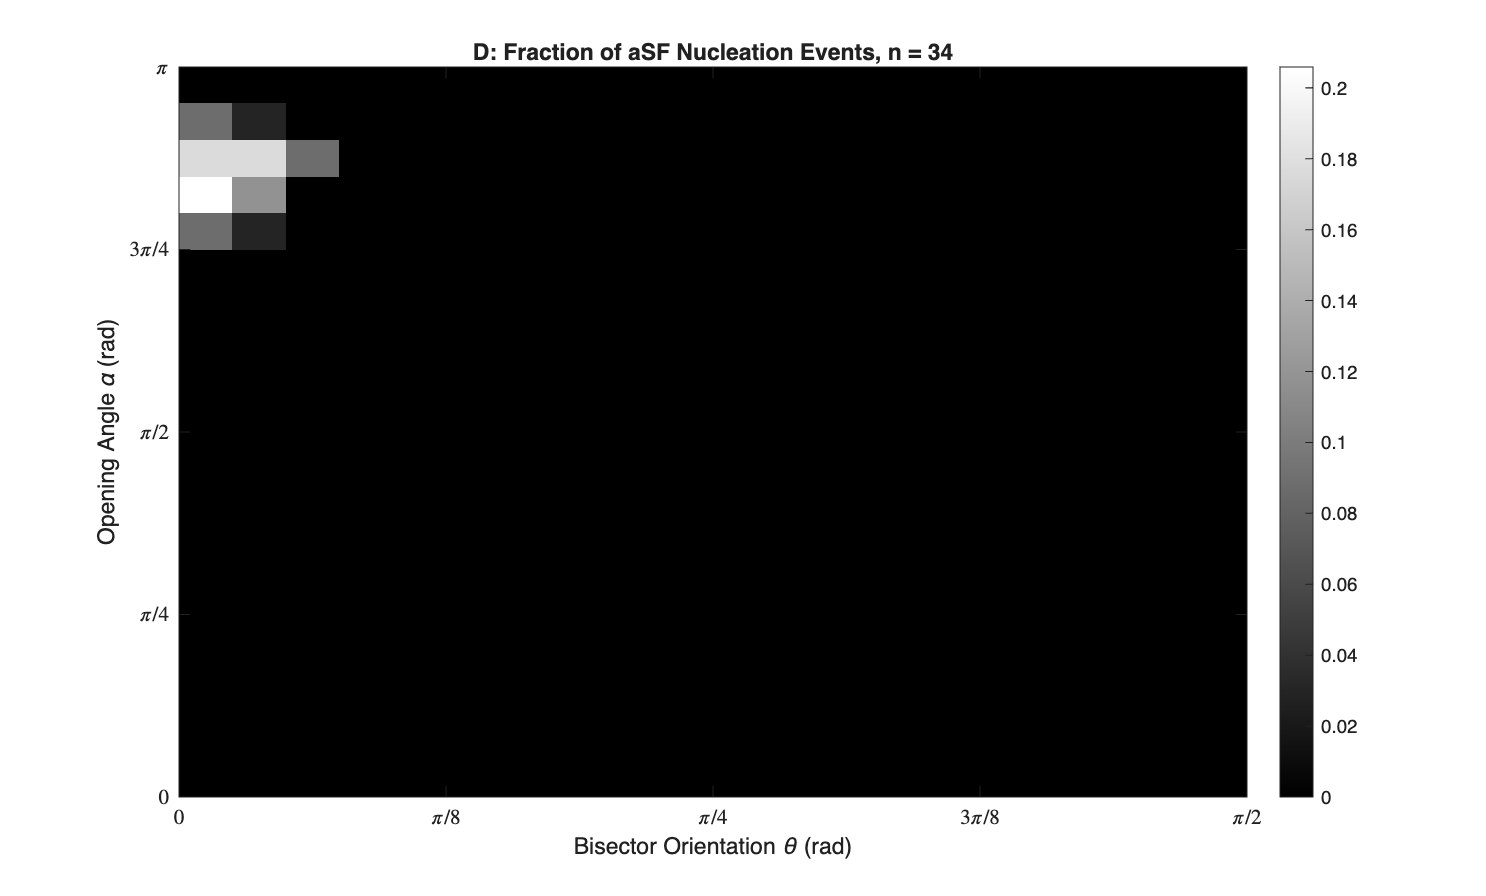
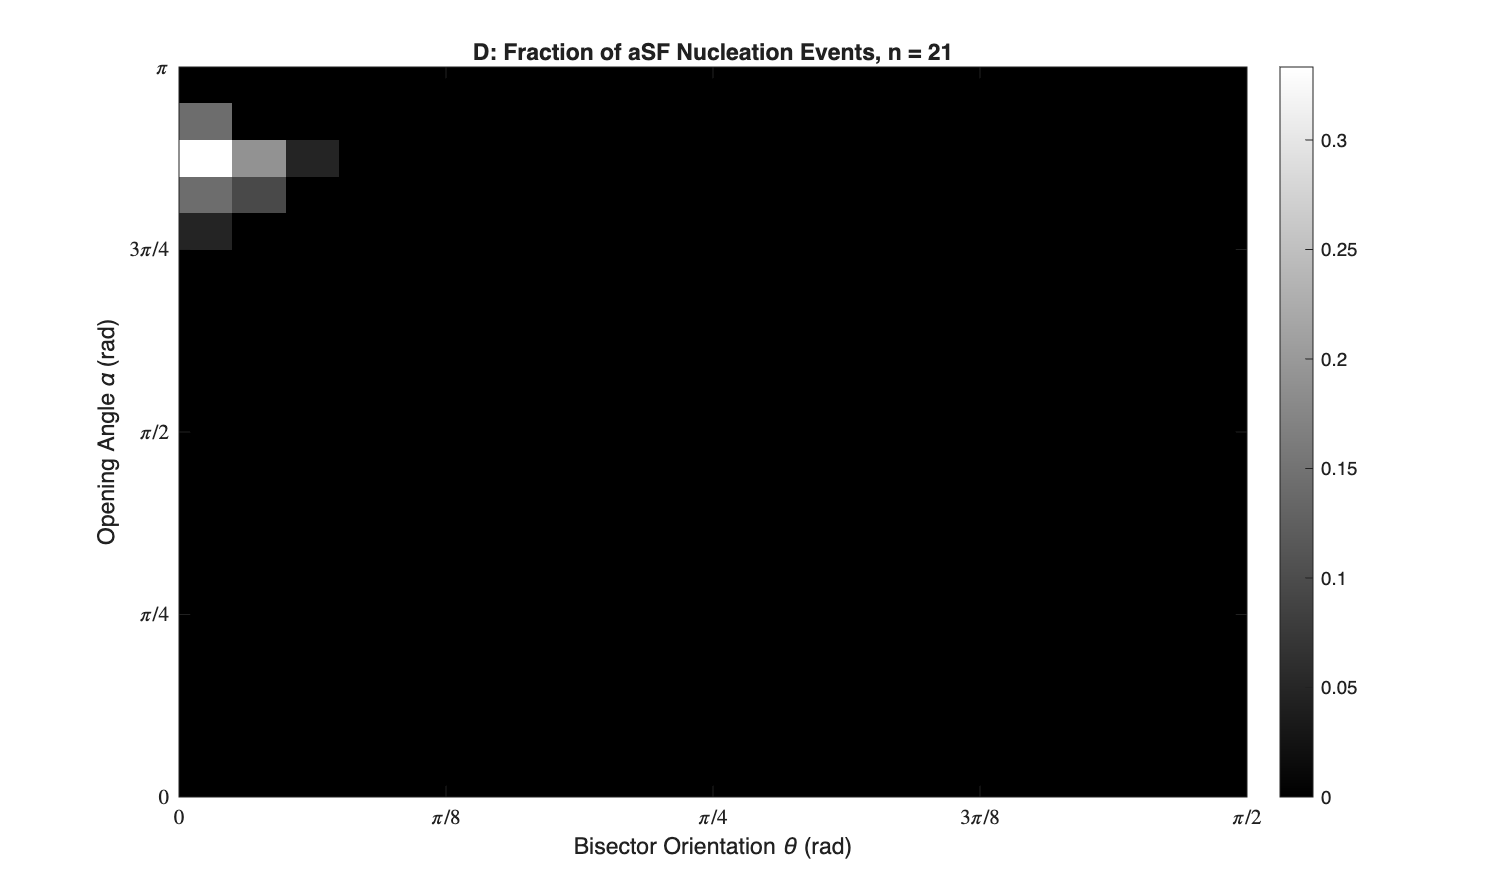
script updated

diff --git a/Matlab_functions_input_file/tensionAnglePlots.m b/Matlab_functions_input_file/tensionAnglePlots.m
@@ -1,13 +1,31 @@
-% clear
+function tensionAnglePlots(inputFileName)
+
+clc; close all;
+
+%% =========================
+% USER INPUT
+%% =========================   % <-- your snapshot file
+
 % 
+
+underScoreIndexing = strfind(inputFileName,'_');
+relevantFilePortion = inputFileName(1:underScoreIndexing(9)); 
+folderOutputName = relevantFilePortion + "visualization";
+
+
+scriptDir = fileparts(mfilename('fullpath'));
+projectRoot = fileparts(scriptDir);
+
+inputDir = fullfile(projectRoot,'input_files',inputFileName);
+
 % filenamme = 'RFB_NbPts_1000_rng_2000_pot_ani_lim_320_relaxed_out.txt';
-% [edgeArray,Y,NUCLEATIONTHRESHOLD, EpsilonMax] = readEdgeData(filenamme);
-% 
-% time = edgeArray(:, 1);
-% tension = edgeArray(:, 5);
-% restlength = edgeArray(:, 7);
-% length = edgeArray(:, 6);
-% angle = edgeArray(:, 9);
+[edgeArray,Y,NUCLEATIONTHRESHOLD, EpsilonMax] = readEdgeData(inputDir);
+
+time = edgeArray(:, 1);
+tension = edgeArray(:, 5);
+restlength = edgeArray(:, 7);
+length = edgeArray(:, 6);
+angle = edgeArray(:, 9);
 
 %Number of edges above threshold and over max tension
 uniqueTimes = unique(time, 'stable');
@@ -41,7 +59,8 @@ yedges2 = linspace(EpsilonMax * Y, 1.5 * EpsilonMax * Y, 11);
 yedges = [yedges1, yedges2(2:end)];
 
 videoName = 'tension_angle_evolution.mp4';
-v = VideoWriter(videoName, 'MPEG-4');
+outputDir = fullfile(projectRoot,"visualization_files",folderOutputName,videoName);
+v = VideoWriter(outputDir, 'MPEG-4');
 v.FrameRate = 12;
 open(v);
 

diff --git a/DynamicTissue.cpp b/DynamicTissue.cpp
@@ -487,6 +487,7 @@ void Tissue_Dynamic::HelperWriteOutputData_Write2File(ofstream* datafile, bool i
 	*datafile << "GAMMA0\t" << GAMMA0 << endl;
 	*datafile << "Y\t" << Y << endl;
 	*datafile << "ExternalStressRatio\t" << ExternalStressRatio << endl;
+	*datafile << "TOTALT1\t" << TOTALT1 << endl; 
 
 	//******ADD NEW OUTPUT HERE******//
 	*datafile << "endGlobal" << endl;
@@ -495,6 +496,7 @@ void Tissue_Dynamic::HelperWriteOutputData_Write2File(ofstream* datafile, bool i
 		//print the vertex info
 		/*
 		*datafile << "Vertices" << endl;
+		/
 		*datafile << "id\tx\ty" << endl;
 		for (list<Vertex*>::iterator vit = vertices.begin(); vit != vertices.end(); vit++) {	//loop through all of the vertices in the tissue
 			*datafile << (*(*vit)).id << "\t" << (*(*vit)).r.x << "\t" << (*(*vit)).r.y << endl;						//write it's info to the file
@@ -1360,6 +1362,7 @@ bool Tissue_Dynamic::T1(ofstream* errorfile) {
 			flag++;
 		}
 	}
+	TOTALT1 = flag; 
 	if (flag == 0) {
 		return false;
 	}

diff --git a/Matlab_functions_input_file/nucleation_initalization_file.m b/Matlab_functions_input_file/nucleation_initalization_file.m
@@ -1,5 +1,5 @@
 r = 1050; % Updated seed to match target
-NbPoints = 40; 
+NbPoints = 100; 
 limit = 3; 
 cpt = 'quadratic';
 prefix = 'RFB';
@@ -62,6 +62,7 @@ KAPPA=(3/100)*0.227*5.502/ALPHAM;
 GAMMA0=GAMMA;
 Y=1.25*GAMMA/EpsilonMax;
 NUCLEATIONTHRESHOLD = 0.95*EpsilonMax*Y;
+EpsilonMax = 10000;
 
 %% Simulation Detail Parameters
 % Calculate Mesh based on A0 and NbPoints to get LX = 167.705098

diff --git a/DynamicConstants.h b/DynamicConstants.h
@@ -18,6 +18,7 @@ extern double KAPPA;				 //!< Remodeling rate constant for changes in edge rest 
 extern double L0;					//!< Rest length of the edge when it is first created
 extern const double GAMMA0;         //!< GAMMA at the very beginning of the simulation (the const GAMMA the tissue was equilibrated with) 
 extern double ExternalStressRatio;  //!< Ratio of the external stress to the maximum edge tension before edges undergo a changes in rest length. Used to calculate TISSUE_EXT_STRESS_Y in DynamicMain.cpp
+extern int TOTALT1; 
 #endif
 
  